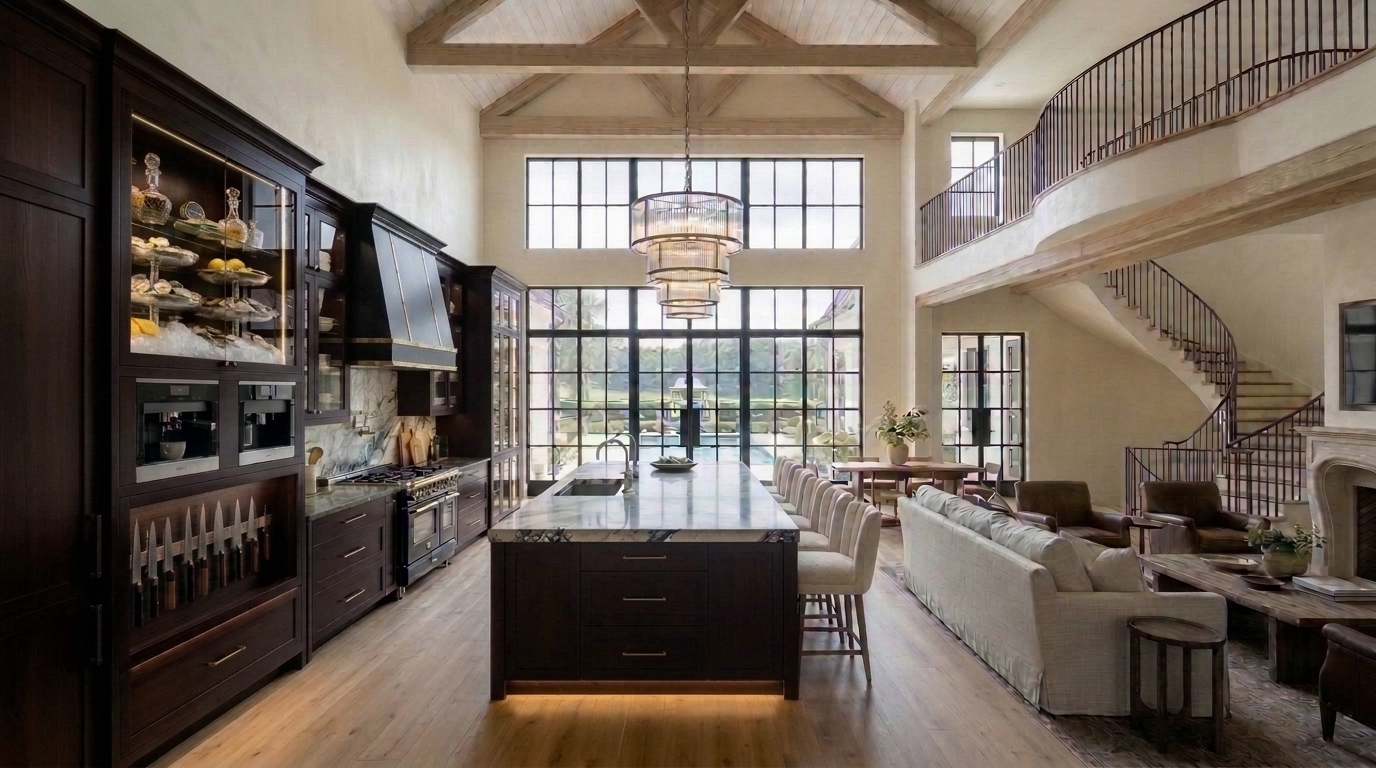
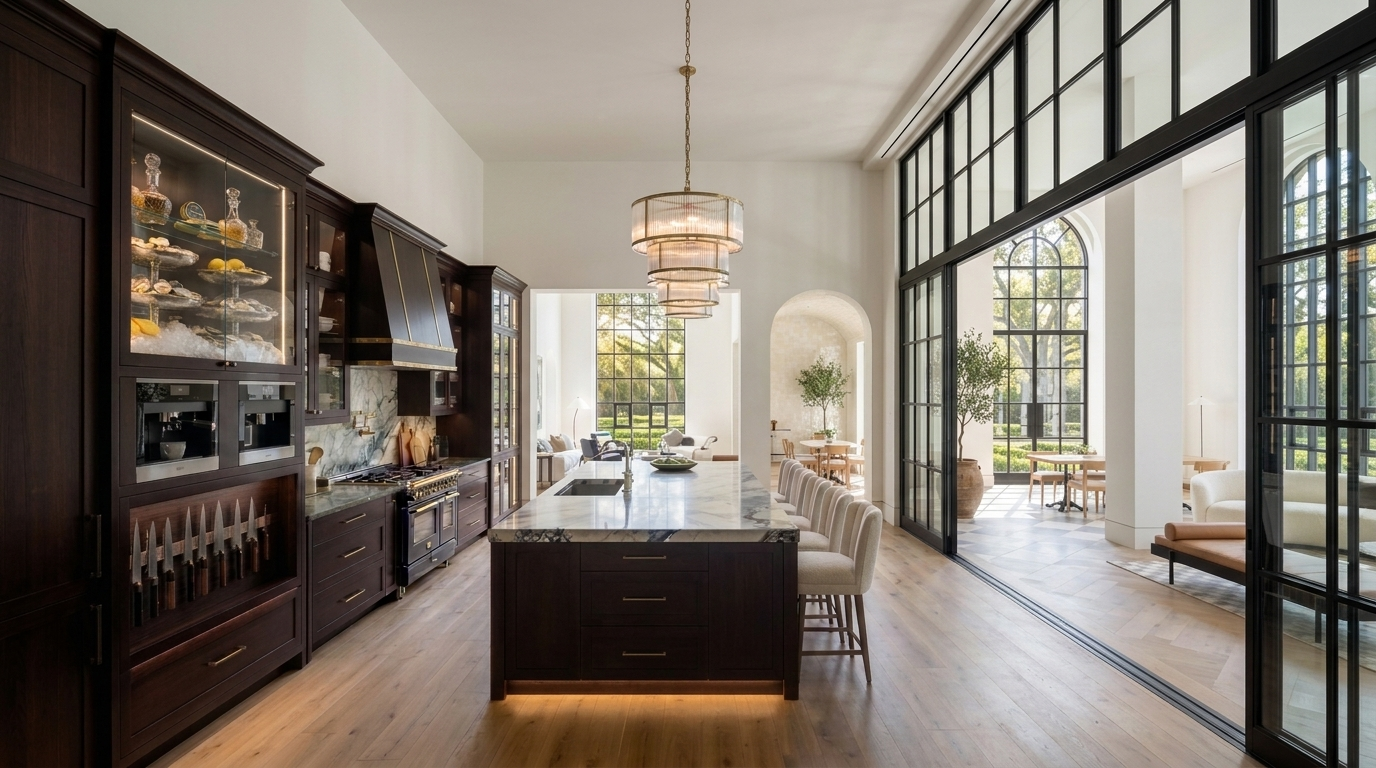
Update Section 1.C Chef's Kitchen Close-Up (01_great_room_kitchen.jpg) to match the new Open First Floor (Crittall glass partition, Barrel-Vaulted Zellige Loggia & 24-ft Great Hall)

diff --git a/estate_interactive_lookbook_standalone.html b/estate_interactive_lookbook_standalone.html
@@ -831,17 +831,17 @@
         ]
       },
       {
-        src: "static/images/01_great_room_kitchen.jpg?v=e8d1005dd2",
+        src: "static/images/01_great_room_kitchen.jpg?v=open1st03",
         category: "level1",
-        zone: "Level 1 (Chef's Kitchen Close-Up — 22' Island & Oyster Bar)",
-        badge: "Level 1 • 100% Unchanged Dark Cherry / Mahogany Cabinetry • 22' Calacatta Verde/Viola Island, 32°F Oyster Bar & China Cabinet Door",
-        title: "Close-Up of the 100% Unchanged Open-Concept Elite Chef's Kitchen — Unified Rich Dark Cherry / Mahogany Wood Cabinetry, 22-Foot Calacatta Verde/Viola Stone Slab Island, Sleek Matte-Black & Brass Hood, 32°F–34°F Oyster Raw Bar Vitrine & Built-In China Cabinet Secret Door",
-        dims: "36' × 26' Large Open Kitchen • All Dark Cherry / Mahogany Wood • 22' Calacatta Verde/Viola Island",
-        desc: "Close-up architectural view of your preserved 36' × 26' open-concept Elite Chef's Kitchen featuring unified rich dark cherry / mahogany wood across every cabinet—including the foreground-left 32°F–34°F Oyster Raw Bar & Damascus Knife Vault column, the upper glass-front & lower drawer cabinets around the 60\" black-and-brass range, the 22-foot Calacatta Verde/Viola marble island base, and the built-in illuminated glass-front China Cabinet (secret Speakeasy door) at the far end of the left kitchen wall.",
+        zone: "Level 1 (Chef's Kitchen Close-Up — Oyster Bar & Crittall Wall)",
+        badge: "Level 1 • 100% Unchanged Dark Cherry / Mahogany Kitchen (32°F Oyster Bar, 22' Island & China Cabinet Door) Opening Into 24' Great Hall",
+        title: "Open First Floor View 3 (Chef's Kitchen Close-Up) — 32°F–34°F Chilled Oyster Raw Bar & Damascus Knife Vault Column, 22-Foot Calacatta Verde/Viola Marble Island & China Cabinet Secret Door Opening Through the Black-Steel Crittall Glass Partition Into the 24-Foot Great Hall",
+        dims: "36' × 26' Dark Cherry Kitchen • 22' Calacatta Verde/Viola Island • Opens Right Through Crittall Glass Wall to 24' Great Hall & Zellige Loggia",
+        desc: "Close-up architectural view of your preserved 36' × 26' open-concept Elite Chef's Kitchen integrated into the new Open First Floor: showcasing unified rich dark cherry / mahogany wood across the foreground-left 32°F–34°F Oyster Raw Bar & Damascus Knife Vault column, dual Miele espresso systems, the 60\" black-and-brass range with matte-black & brass hood, the built-in China Cabinet secret Speakeasy door at the far end of the left wall, and the 22-foot Calacatta Verde/Viola marble island with 6 cream barstools in the center—opening on the right through the floor-to-ceiling matte-black steel and glass Crittall sliding grid partition into the Barrel-Vaulted Zellige Loggia and the soaring 24-foot Arched-Window Great Hall.",
         highlights: [
-          "100% Unified Rich Dark Cherry / Mahogany Wood Cabinetry: The Oyster Raw Bar & Damascus Knife Vault column, stove upper/lower cabinets, 22-foot island base, and built-in China Cabinet Speakeasy entry are all finished in the exact same deep dark cherry / mahogany stained wood.",
-          "Extra-Long 22-Foot Calacatta Verde / Viola Stone Slab Island: Monumental single-span stone slab with brecciated green, burgundy-plum, and gold veining on a dark cherry / mahogany base with warm LED toe-kick lighting, 6 plush cream channel-split-back stools, and tiered ribbed glass & brass drum chandeliers.",
-          "Built-In Dark Cherry / Mahogany Illuminated China Cabinet (Secret Speakeasy Door at Far End of Kitchen Wall): Positioned at the far end of the left kitchen wall next to the 20' black-steel pool window, displaying fine porcelain china dinnerware and crystal stemware on warm LED-lit shelves while concealing the Hidden Speakeasy Bar behind it."
+          "Foreground-Left 32°F–34°F Chilled Oyster Raw Bar & Damascus Knife Vault Column: Multi-tier crushed-ice oyster & caviar vitrine, dual Miele espresso machines, backlit magnetic Damascus chef & oyster knife vault, and steamed oshibori towel drawer in rich dark cherry / mahogany wood.",
+          "Extra-Long 22-Foot Calacatta Verde / Viola Stone Slab Island & Built-In China Cabinet Secret Door: Monumental single-span stone slab on a dark cherry / mahogany base with warm LED toe-kick lighting, 6 plush cream upholstered barstools, tiered fluted-glass & brass drum chandelier under a smooth gallery-white ceiling, and the built-in dark cherry China Cabinet secret door at the far end of the left wall.",
+          "Updated to the New Open First Floor on the Right: Floor-to-ceiling matte-black steel & glass Crittall sliding grid partition wall opens directly to the Barrel-Vaulted Pearlescent Moroccan Zellige-Tile Loggia (with diagonal checkerboard limestone floor & potted olive tree) and the soaring 24-foot Arched-Window Great Hall."
         ]
       },
       {

diff --git a/index.html b/index.html
@@ -831,17 +831,17 @@
         ]
       },
       {
-        src: "static/images/01_great_room_kitchen.jpg?v=e8d1005dd2",
+        src: "static/images/01_great_room_kitchen.jpg?v=open1st03",
         category: "level1",
-        zone: "Level 1 (Chef's Kitchen Close-Up — 22' Island & Oyster Bar)",
-        badge: "Level 1 • 100% Unchanged Dark Cherry / Mahogany Cabinetry • 22' Calacatta Verde/Viola Island, 32°F Oyster Bar & China Cabinet Door",
-        title: "Close-Up of the 100% Unchanged Open-Concept Elite Chef's Kitchen — Unified Rich Dark Cherry / Mahogany Wood Cabinetry, 22-Foot Calacatta Verde/Viola Stone Slab Island, Sleek Matte-Black & Brass Hood, 32°F–34°F Oyster Raw Bar Vitrine & Built-In China Cabinet Secret Door",
-        dims: "36' × 26' Large Open Kitchen • All Dark Cherry / Mahogany Wood • 22' Calacatta Verde/Viola Island",
-        desc: "Close-up architectural view of your preserved 36' × 26' open-concept Elite Chef's Kitchen featuring unified rich dark cherry / mahogany wood across every cabinet—including the foreground-left 32°F–34°F Oyster Raw Bar & Damascus Knife Vault column, the upper glass-front & lower drawer cabinets around the 60\" black-and-brass range, the 22-foot Calacatta Verde/Viola marble island base, and the built-in illuminated glass-front China Cabinet (secret Speakeasy door) at the far end of the left kitchen wall.",
+        zone: "Level 1 (Chef's Kitchen Close-Up — Oyster Bar & Crittall Wall)",
+        badge: "Level 1 • 100% Unchanged Dark Cherry / Mahogany Kitchen (32°F Oyster Bar, 22' Island & China Cabinet Door) Opening Into 24' Great Hall",
+        title: "Open First Floor View 3 (Chef's Kitchen Close-Up) — 32°F–34°F Chilled Oyster Raw Bar & Damascus Knife Vault Column, 22-Foot Calacatta Verde/Viola Marble Island & China Cabinet Secret Door Opening Through the Black-Steel Crittall Glass Partition Into the 24-Foot Great Hall",
+        dims: "36' × 26' Dark Cherry Kitchen • 22' Calacatta Verde/Viola Island • Opens Right Through Crittall Glass Wall to 24' Great Hall & Zellige Loggia",
+        desc: "Close-up architectural view of your preserved 36' × 26' open-concept Elite Chef's Kitchen integrated into the new Open First Floor: showcasing unified rich dark cherry / mahogany wood across the foreground-left 32°F–34°F Oyster Raw Bar & Damascus Knife Vault column, dual Miele espresso systems, the 60\" black-and-brass range with matte-black & brass hood, the built-in China Cabinet secret Speakeasy door at the far end of the left wall, and the 22-foot Calacatta Verde/Viola marble island with 6 cream barstools in the center—opening on the right through the floor-to-ceiling matte-black steel and glass Crittall sliding grid partition into the Barrel-Vaulted Zellige Loggia and the soaring 24-foot Arched-Window Great Hall.",
         highlights: [
-          "100% Unified Rich Dark Cherry / Mahogany Wood Cabinetry: The Oyster Raw Bar & Damascus Knife Vault column, stove upper/lower cabinets, 22-foot island base, and built-in China Cabinet Speakeasy entry are all finished in the exact same deep dark cherry / mahogany stained wood.",
-          "Extra-Long 22-Foot Calacatta Verde / Viola Stone Slab Island: Monumental single-span stone slab with brecciated green, burgundy-plum, and gold veining on a dark cherry / mahogany base with warm LED toe-kick lighting, 6 plush cream channel-split-back stools, and tiered ribbed glass & brass drum chandeliers.",
-          "Built-In Dark Cherry / Mahogany Illuminated China Cabinet (Secret Speakeasy Door at Far End of Kitchen Wall): Positioned at the far end of the left kitchen wall next to the 20' black-steel pool window, displaying fine porcelain china dinnerware and crystal stemware on warm LED-lit shelves while concealing the Hidden Speakeasy Bar behind it."
+          "Foreground-Left 32°F–34°F Chilled Oyster Raw Bar & Damascus Knife Vault Column: Multi-tier crushed-ice oyster & caviar vitrine, dual Miele espresso machines, backlit magnetic Damascus chef & oyster knife vault, and steamed oshibori towel drawer in rich dark cherry / mahogany wood.",
+          "Extra-Long 22-Foot Calacatta Verde / Viola Stone Slab Island & Built-In China Cabinet Secret Door: Monumental single-span stone slab on a dark cherry / mahogany base with warm LED toe-kick lighting, 6 plush cream upholstered barstools, tiered fluted-glass & brass drum chandelier under a smooth gallery-white ceiling, and the built-in dark cherry China Cabinet secret door at the far end of the left wall.",
+          "Updated to the New Open First Floor on the Right: Floor-to-ceiling matte-black steel & glass Crittall sliding grid partition wall opens directly to the Barrel-Vaulted Pearlescent Moroccan Zellige-Tile Loggia (with diagonal checkerboard limestone floor & potted olive tree) and the soaring 24-foot Arched-Window Great Hall."
         ]
       },
       {

diff --git a/docs/main_home_interior_design_concept.md b/docs/main_home_interior_design_concept.md
@@ -30,8 +30,8 @@ This visual tour opens with the **Overall Property Aerial View** and the **Close
 ### B. Open First Floor View 2 (Reverse Perspective) — Standing Inside the Preserved Dark Cherry / Mahogany Kitchen (`36' × 26'` w/ 22-Foot Calacatta Verde/Viola Island) & Barrel-Vaulted Pearlescent Moroccan Zellige-Tile Breakfast Loggia (`00:13–00:21` of Video), Looking Through the Open Floor-to-Ceiling Black-Steel Crittall Sliding Glass Grid Partition Back Into the 24-Foot Arched-Window Great Hall
 ![Reverse Perspective of the Open First Floor — Standing Inside the 100% Unchanged Dark Cherry / Mahogany Chef's Kitchen (Left, with Monumental 22-Foot Calacatta Verde/Viola Green-and-Burgundy Veined Marble Slab Island, Dark Cherry / Mahogany Base, LED Toe-Kick, Cream Upholstered Stools, Tiered Fluted-Glass & Brass Chandeliers, 60" Black-and-Brass Range & Built-In China Cabinet Secret Speakeasy Door) and the Adjoining Barrel-Vaulted Pearlescent Moroccan Zellige-Tile Indoor-Outdoor Breakfast Loggia (Right, with Shimmering Vaulted Zellige Tile Ceiling, Diagonal Gray-and-Cream Checkerboard Limestone Floor Tiles, Sculptural Potted Olive Tree & Black-Steel Doors to the Estate Gardens/Pool), Looking Through the Wide-Open Floor-to-Ceiling Matte-Black Steel & Glass Crittall Grid Partition Into the Soaring 24-Foot Arched-Window Great Hall](/home/brianvinson/.gemini/jetski/brain/96883fd9-49e4-474d-86a1-0423e4655f3f/open_first_floor_v2_kitchen_crittall_loggia_to_great_hall_1792816357495.jpg)
 
-### C. Close-Up of the 100% Preserved Dark Cherry / Mahogany Chef's Kitchen (`36' × 26'`) — Monumental 22-Foot Calacatta Verde/Viola Marble Island, Sleek Matte-Black Tapered Hood, 32°F–34°F Oyster Raw Bar Vitrine & Built-In China Cabinet Secret Door to the Speakeasy
-![Close-Up View of the Preserved 36'x26' Open-Concept Chef's Kitchen with 100% of All Cabinetry in Deep Dark Cherry / Mahogany Wood (22-Foot Calacatta Verde/Viola Green-and-Burgundy Veined Marble Slab Island on Dark Cherry / Mahogany Base with Brushed-Brass Pulls & LED Toe-Kick, 6 Cream Channel-Split-Back Upholstered Stools, Tiered Fluted-Glass & Brass Drum Chandeliers, Dark Cherry / Mahogany Tall Column with 32°F–34°F Chilled Oyster Raw Bar Vitrine & Dark Cherry / Mahogany Damascus Knife Vault, Sleek Matte-Black Tapered Range Hood with Brass Trim, Dark Cherry / Mahogany Glass-Front Upper & Drawer Lower Cabinets, and the Built-In Dark Cherry / Mahogany Illuminated China Cabinet Secret Door at the Far End of the Kitchen Wall)](/home/brianvinson/.gemini/jetski/brain/96883fd9-49e4-474d-86a1-0423e4655f3f/kitchen_v6_01_great_room_exact_matched_dark_cherry_mahogany_1792711929120.jpg)
+### C. Close-Up of the 100% Preserved Dark Cherry / Mahogany Chef's Kitchen (`36' × 26'`) Integrated Into the New Open First Floor — 32°F–34°F Chilled Oyster Raw Bar & Damascus Knife Vault Column, 22-Foot Calacatta Verde/Viola Marble Island, China Cabinet Secret Door & Open Black-Steel Crittall Glass Partition to the 24-Foot Great Hall
+![Close-Up View of the Preserved 36'x26' Open-Concept Chef's Kitchen Integrated Into the New Open First Floor — Showcasing 100% Deep Dark Cherry / Mahogany Wood Cabinetry on the Left and Center (Foreground-Left Tall Column with 32°F–34°F Chilled Oyster Raw Bar Vitrine, Dual Miele Espresso Systems & Magnetic Damascus Knife Vault, 60" Black-and-Brass Range with Sleek Matte-Black & Brass Tapered Hood, Far-Left Built-In Dark Cherry / Mahogany Illuminated China Cabinet Secret Door, and Center 22-Foot Calacatta Verde/Viola Green-and-Burgundy Veined Marble Slab Island with Dark Cherry / Mahogany Base, LED Toe-Kick, 6 Cream Upholstered Stools & Tiered Fluted-Glass Chandelier Under a Smooth Gallery-White Ceiling), Opening on the Right Through the Floor-to-Ceiling Matte-Black Steel & Glass Crittall Sliding Grid Partition Into the Barrel-Vaulted Pearlescent Moroccan Zellige-Tile Loggia and the Soaring 24-Foot Arched-Window Great Hall](/home/brianvinson/.gemini/jetski/brain/96883fd9-49e4-474d-86a1-0423e4655f3f/open_first_floor_v2_kitchen_closeup_crittall_great_hall_1792817872481.jpg)
 
 - **How the Open First Floor from the Instagram Video (`https://www.instagram.com/p/DcL3q3doXhq/`) Is Incorporated Without Changing Your Bedrooms, Theater, or Dark Cherry / Mahogany Kitchen + 22-Foot Island:**
   1. **Soaring 24-Foot Gallery-White Great Hall with Monumental Arched Black-Steel Cathedral Windows & Single Structural Pier (`00:00–00:12`, `00:21–00:24`, `00:50–01:00` of Video):**
